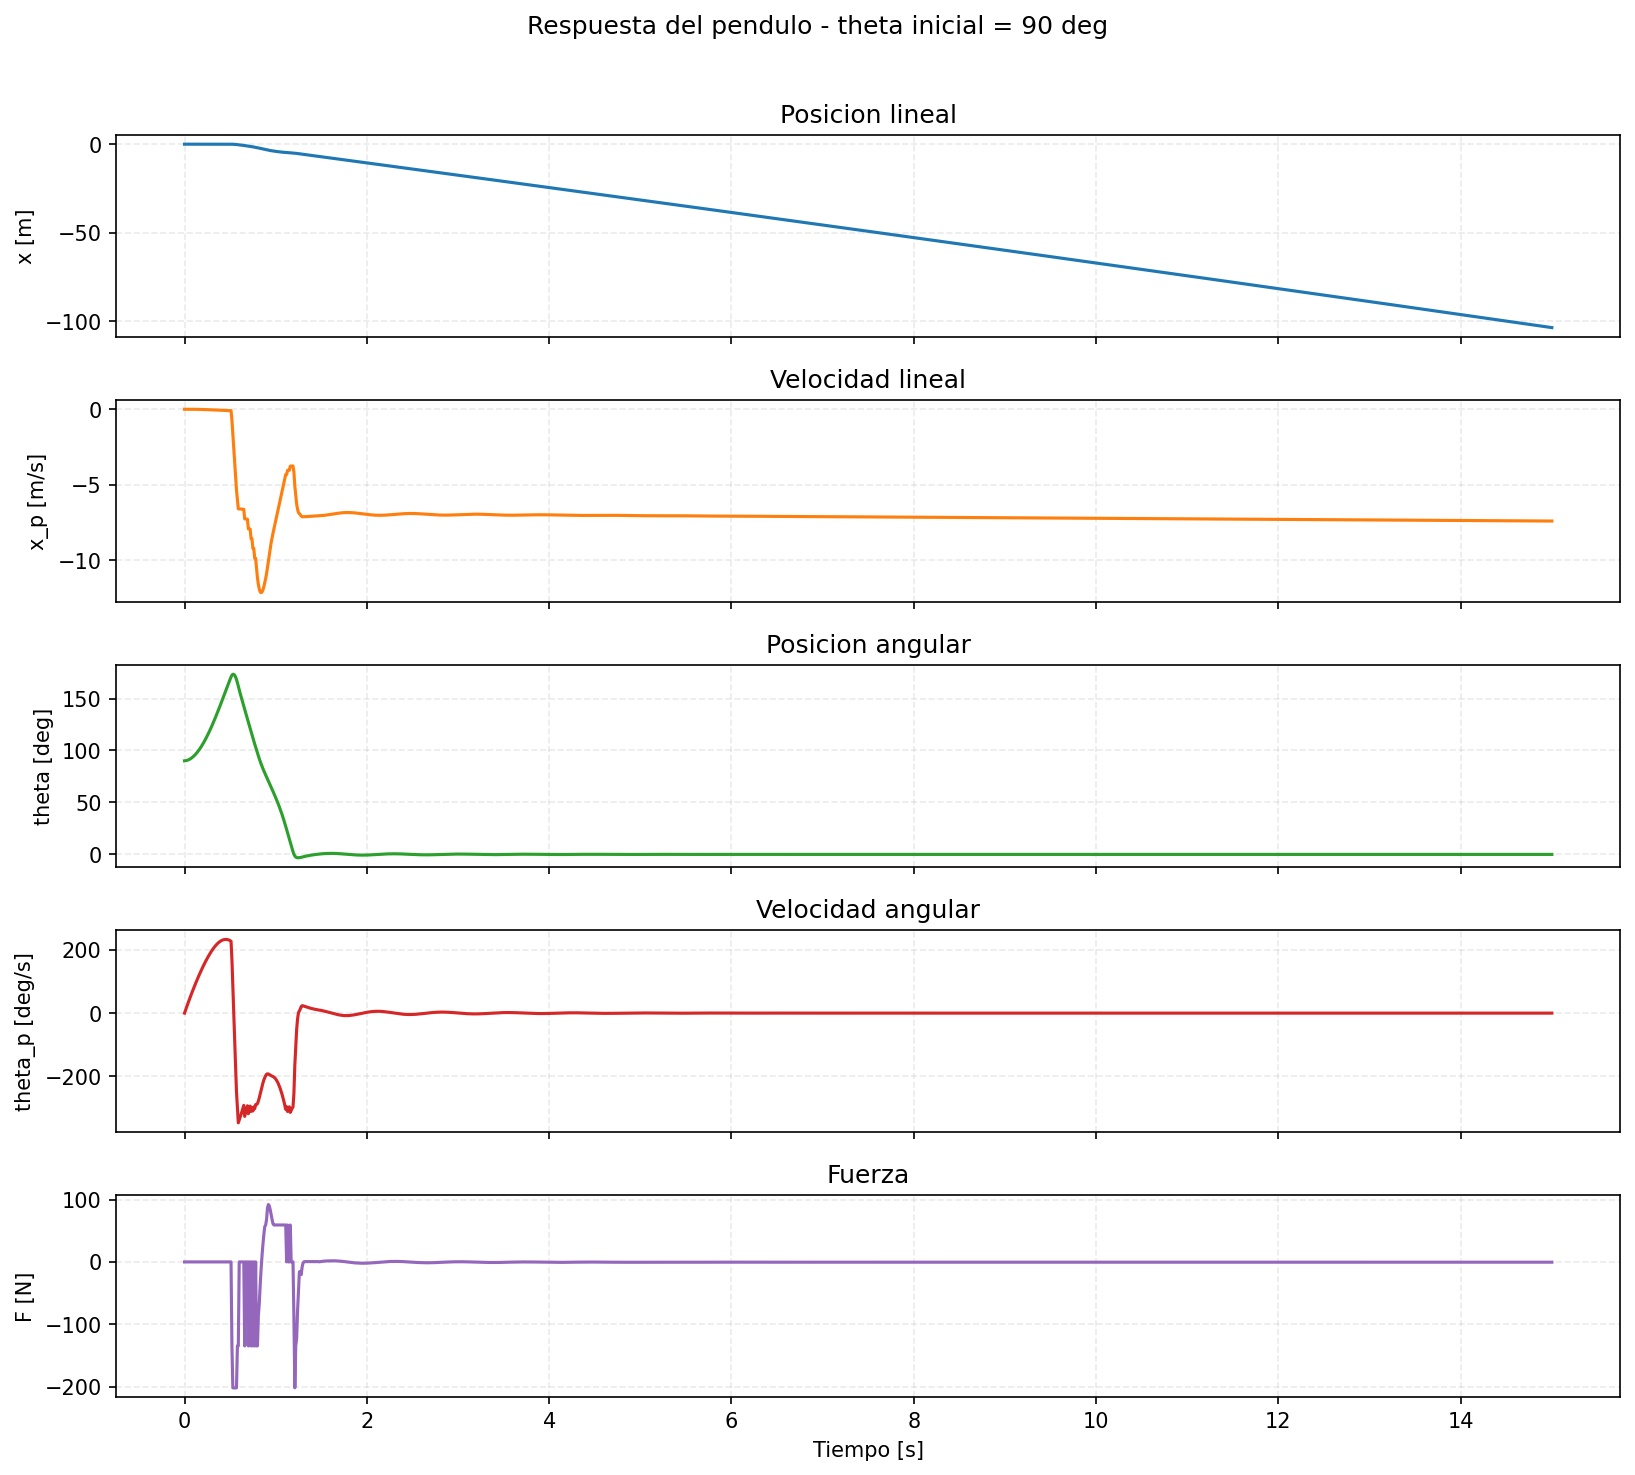
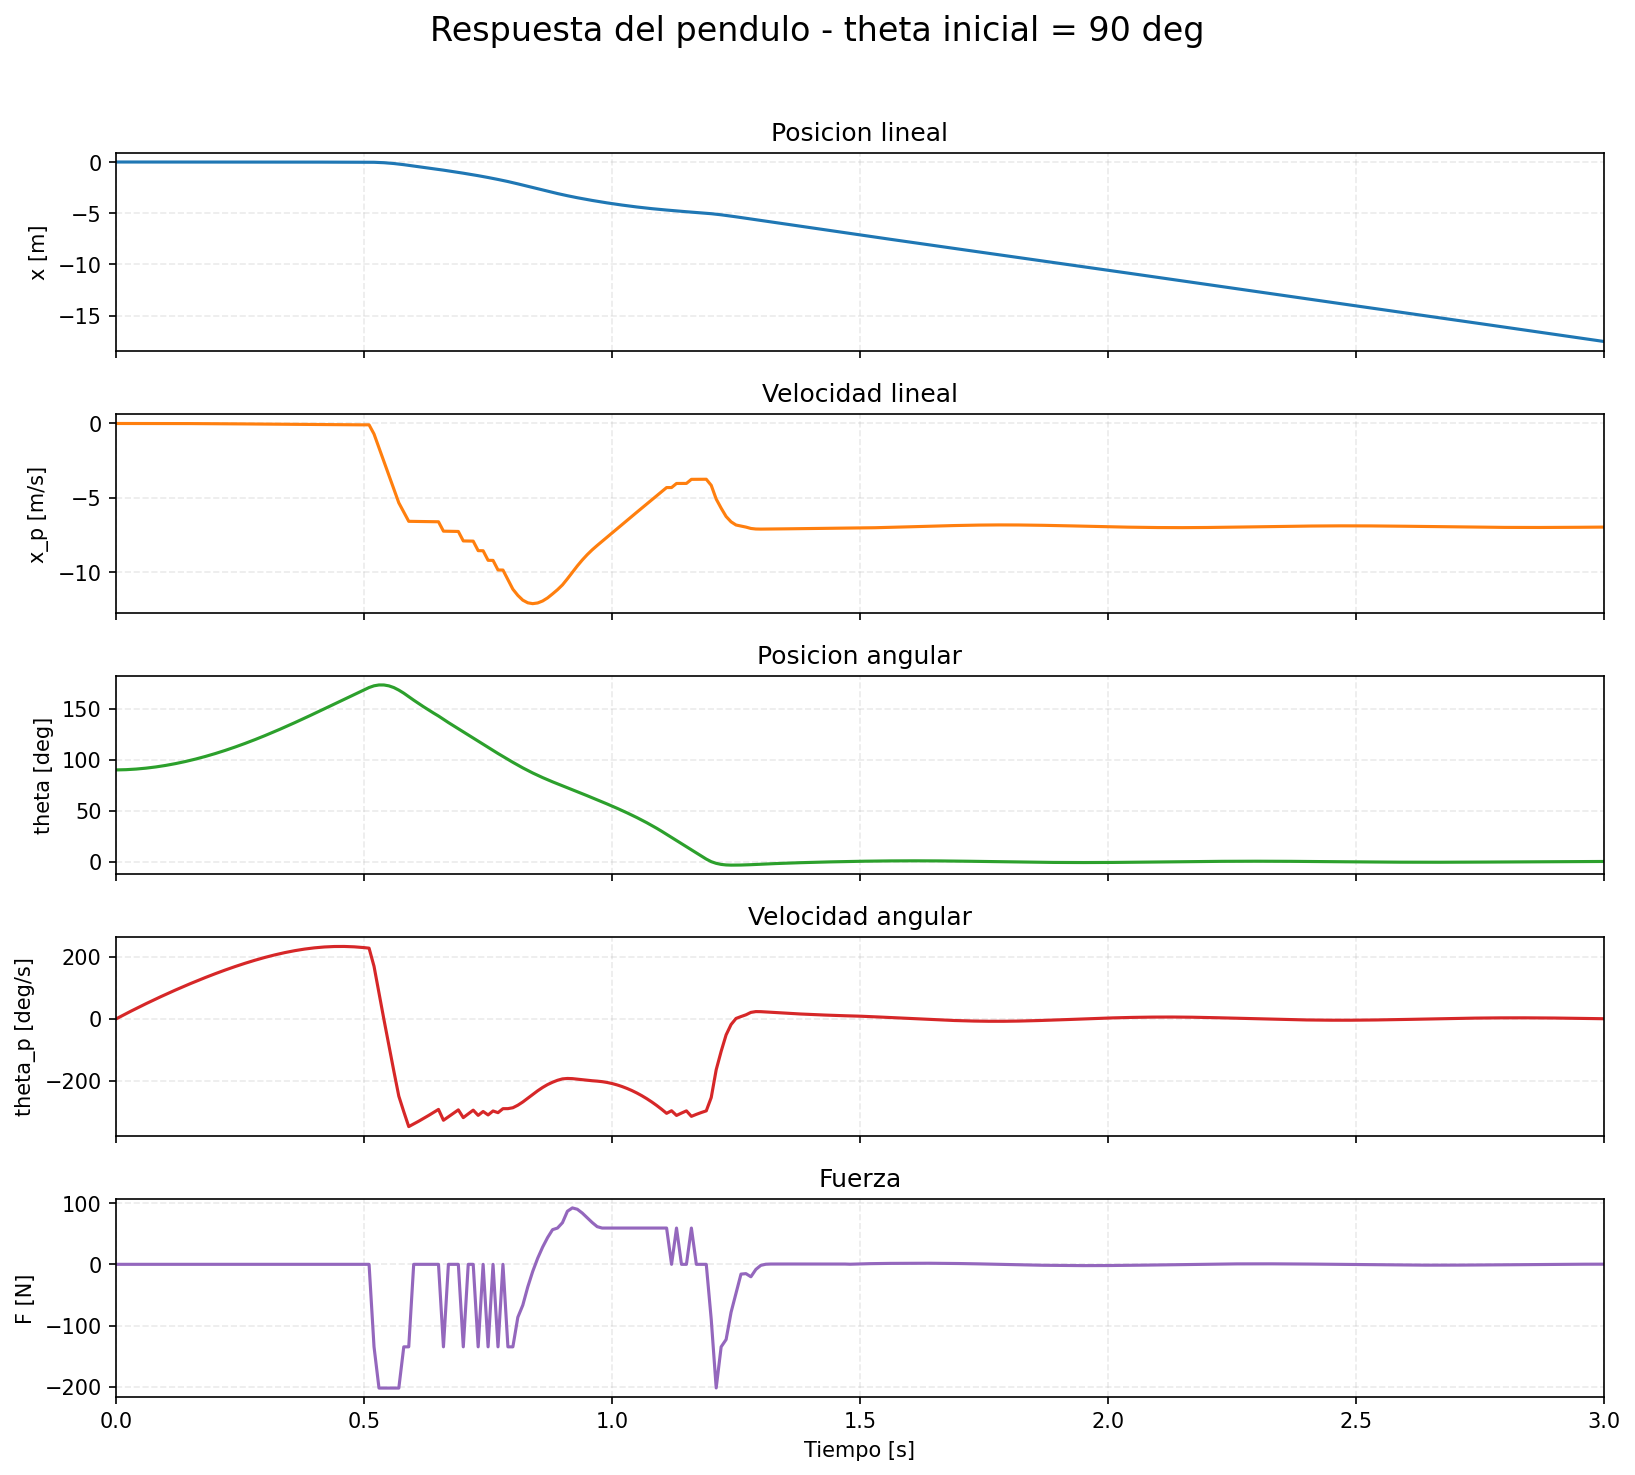
grafics

diff --git a/TP2/Juls/main.py b/TP2/Juls/main.py
@@ -37,25 +37,44 @@ class AdaptadorControladorPlanta:
         self.controlador = controlador
         self.fuerza_max = fuerza_max
         self.control_desactivado = False
+        self.desactivacion_armada = True
         self.desactivar_desde = 80.0
         self.desactivar_hasta = 160.0
         self.reactivar_desde = 170.0
+        self.rearmar_hasta = 70.0
 
     def configurar_modo_inicial(self, estado):
         _, _, theta, _ = estado
         abs_theta = abs(normalizar_angulo(theta))
         self.control_desactivado = self.desactivar_desde <= abs_theta <= self.desactivar_hasta
+        self.desactivacion_armada = abs_theta < self.desactivar_desde
+        if self.control_desactivado:
+            self.desactivacion_armada = False
 
     def debe_reactivar(self, theta):
         return abs(normalizar_angulo(theta)) >= self.reactivar_desde
 
     def calcular_fuerza(self, estado):
         _, _, theta, theta_p = estado
+        abs_theta = abs(normalizar_angulo(theta))
+
         if self.control_desactivado:
             if self.debe_reactivar(theta):
                 self.control_desactivado = False
+                self.desactivacion_armada = False
             else:
                 return 0.0
+
+        if abs_theta <= self.rearmar_hasta:
+            self.desactivacion_armada = True
+
+        if (
+            self.desactivacion_armada
+            and self.desactivar_desde <= abs_theta <= self.desactivar_hasta
+        ):
+            self.control_desactivado = True
+            self.desactivacion_armada = False
+            return 0.0
 
         fuerza = self.controlador.compute_control(theta, theta_p)
         return float(self.fuerza_max * np.tanh(fuerza / self.fuerza_max)) # Limita la fuerza de control a un rango máximo para evitar acciones excesivas en la planta